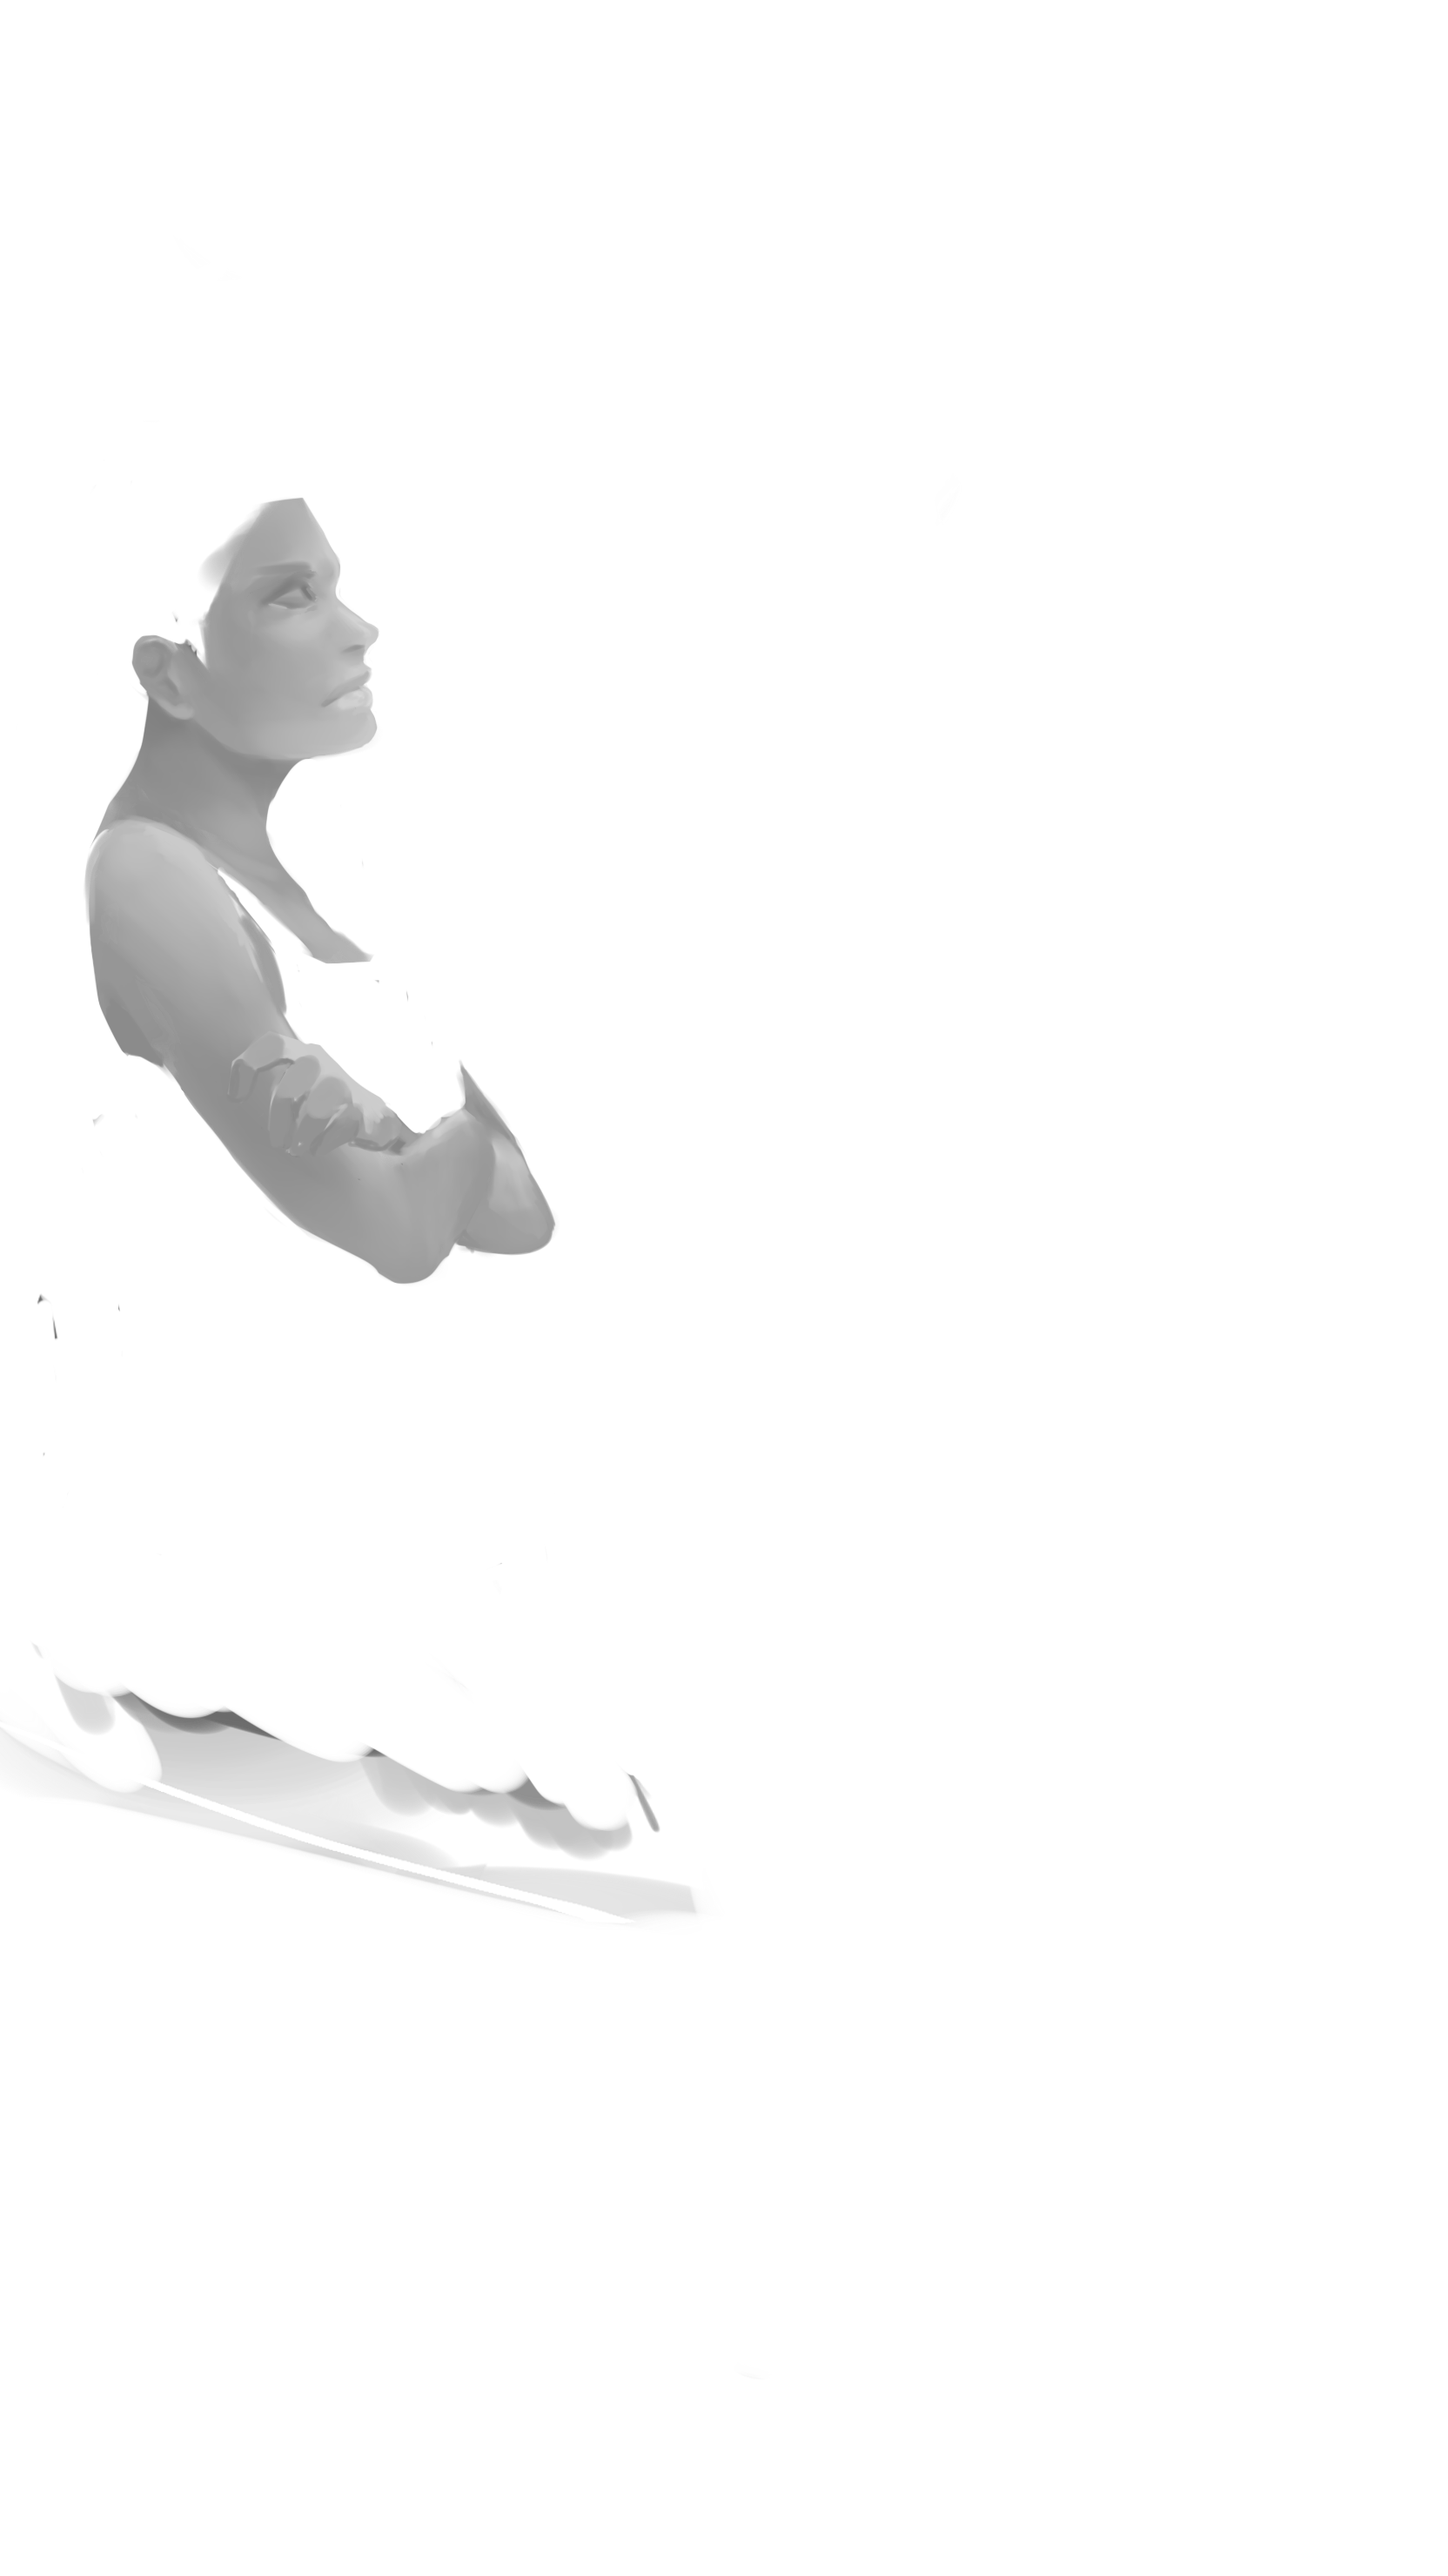
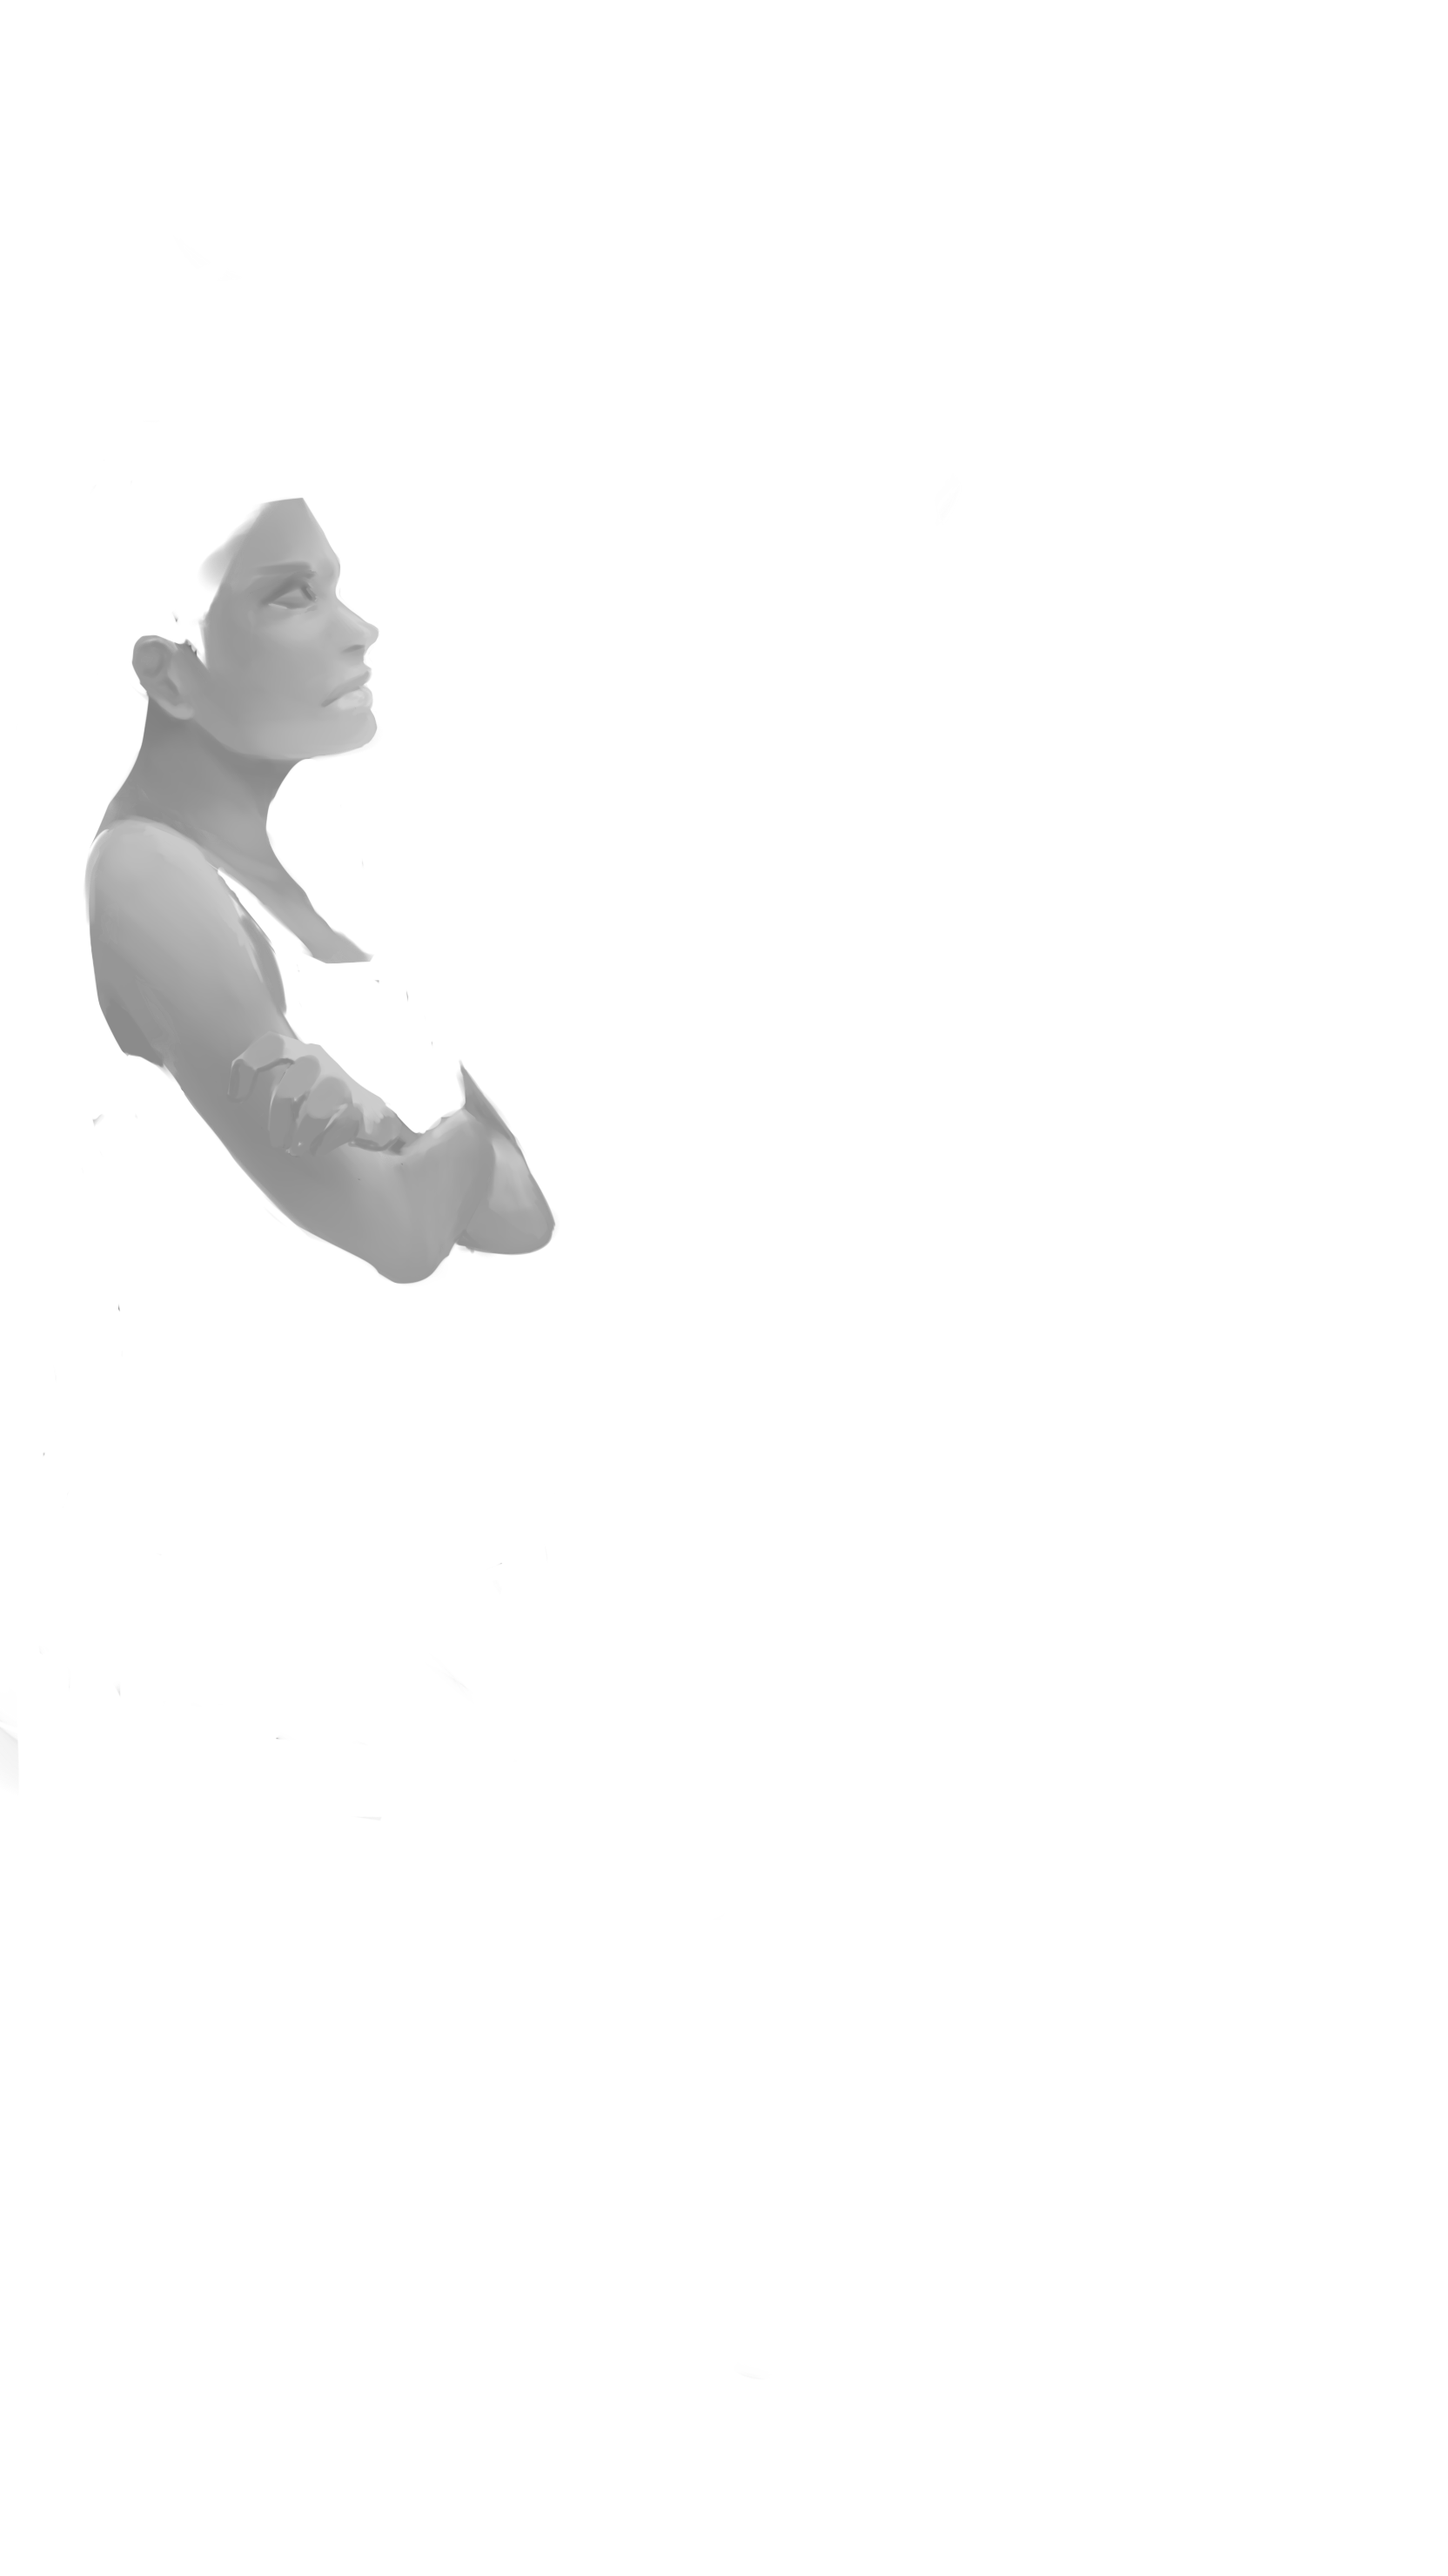
Aesthetic Fixes for Images for Illustration Generator

Changed region(s): [[0.0312, 0.6527, 0.4688, 0.7459]]

diff --git a/CHANGELOG.md b/CHANGELOG.md
@@ -1,6 +1,12 @@
 `Important: put more than 2 spaces at the end of a line if you want a line break`       
 `Two tabs should work`
 
+# Version 1.12.2 (Aesthetic Fixes for Images for Illustration Generator)
+## Changed
+- `new_images_folder`
+    - Adjusted issues that the artists made when drawing the art (aka "Michael Jackson")
+    - Illustrations are now much more pleasing to the eye and have less artistic mistakes
+
 # Version 1.12.1 (Images for Illustration Generator)
 ## Changed
 - `new_images_folder` `imageGenerator.php`
